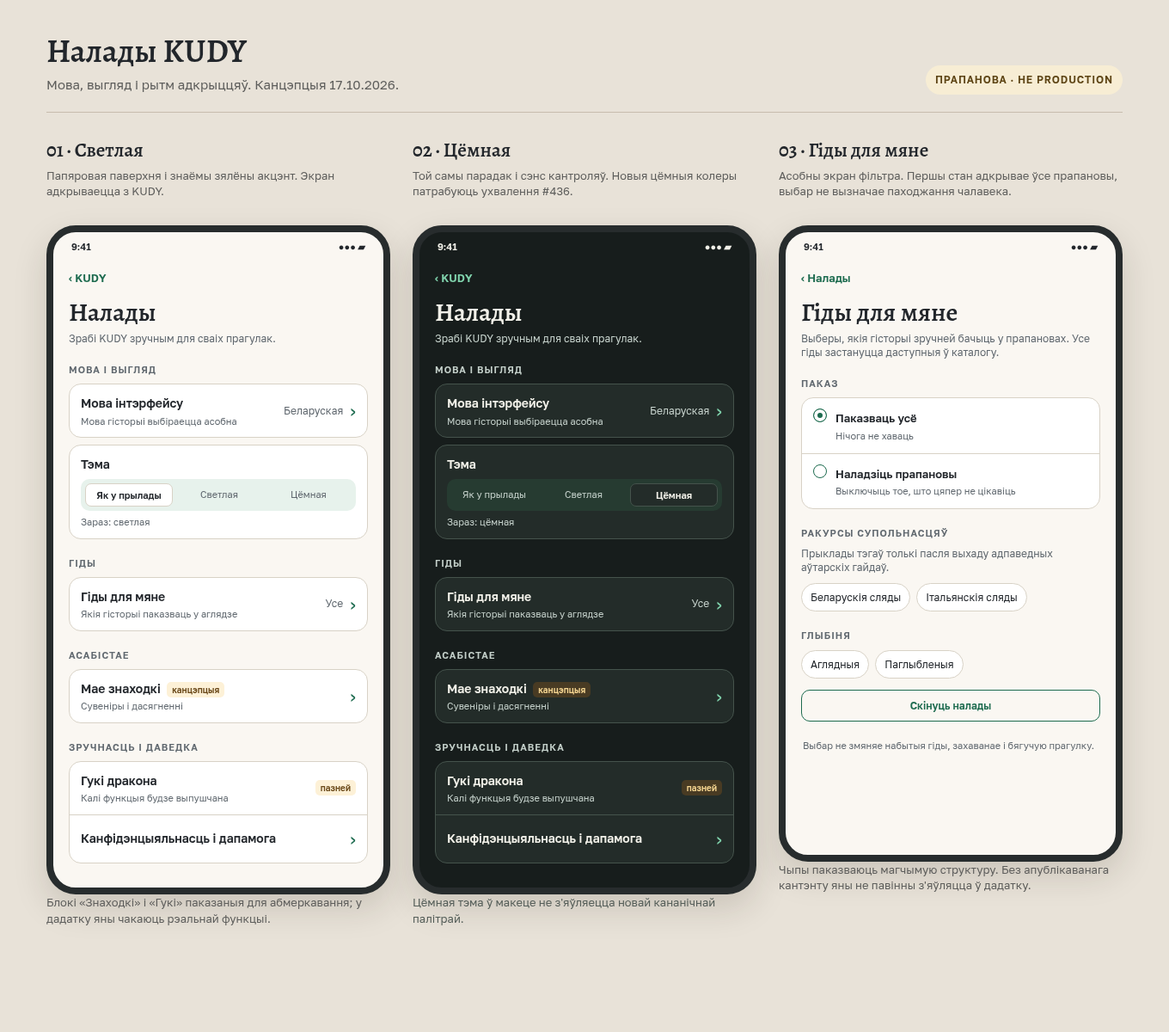
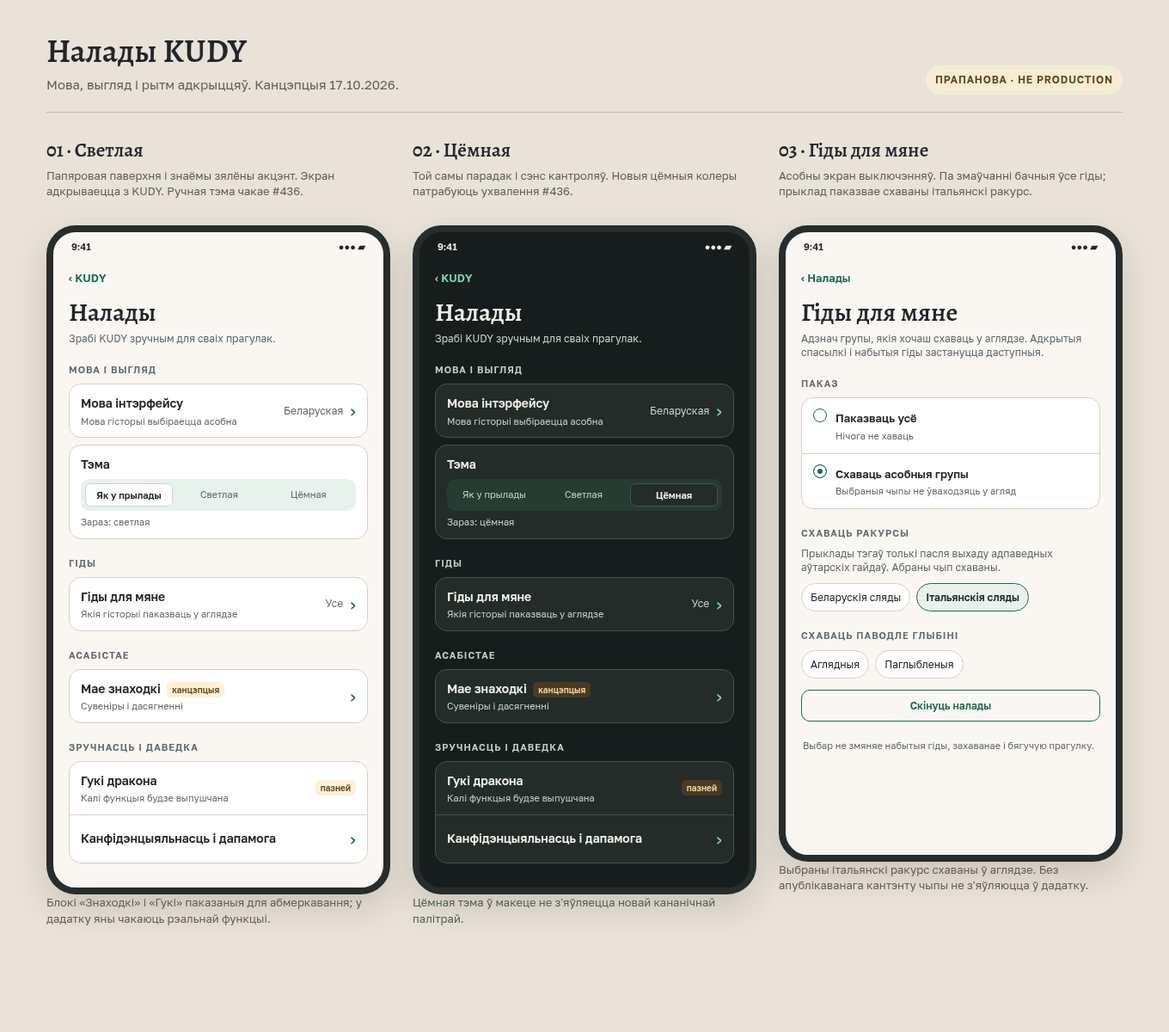
Resolve G27 review gaps in theme and guide filters

diff --git a/docs/design/settings/settings-sheet.html b/docs/design/settings/settings-sheet.html
@@ -9,7 +9,7 @@
 </style>
 </head>
 <body><main class="sheet"><header class="head"><div><h1>Налады KUDY</h1><p>Мова, выгляд і рытм адкрыццяў. Канцэпцыя 17.10.2026.</p></div><span class="tag">Прапанова · не production</span></header><div class="grid">
-<section class="sample"><h2>01 · Светлая</h2><p>Папяровая паверхня і знаёмы зялёны акцэнт. Экран адкрываецца з KUDY.</p><div class="phone"><div class="top"><span>9:41</span><span>●●● ▰</span></div><div class="inner"><div class="nav">‹ KUDY</div><h3 class="title">Налады</h3><p class="intro">Зрабі KUDY зручным для сваіх прагулак.</p><div class="section">Мова і выгляд</div><div class="card"><div class="row"><div><strong>Мова інтэрфейсу</strong><small>Мова гісторыі выбіраецца асобна</small></div><div class="value">Беларуская <span class="chev">›</span></div></div></div><div class="card theme-card" style="margin-top:8px"><strong>Тэма</strong><div class="seg"><span class="on">Як у прылады</span><span>Светлая</span><span>Цёмная</span></div><small>Зараз: светлая</small></div><div class="section">Гіды</div><div class="card"><div class="row"><div><strong>Гіды для мяне</strong><small>Якія гісторыі паказваць у аглядзе</small></div><div class="value">Усе <span class="chev">›</span></div></div></div><div class="section">Асабістае</div><div class="card"><div class="row"><div><strong>Мае знаходкі <span class="concept">канцэпцыя</span></strong><small>Сувеніры і дасягненні</small></div><span class="chev">›</span></div></div><div class="section">Зручнасць і даведка</div><div class="card"><div class="row"><div><strong>Гукі дракона</strong><small>Калі функцыя будзе выпушчана</small></div><span class="concept">пазней</span></div><div class="row"><strong>Канфідэнцыяльнасць і дапамога</strong><span class="chev">›</span></div></div></div></div><p class="footnote">Блокі «Знаходкі» і «Гукі» паказаныя для абмеркавання; у дадатку яны чакаюць рэальнай функцыі.</p></section>
+<section class="sample"><h2>01 · Светлая</h2><p>Папяровая паверхня і знаёмы зялёны акцэнт. Экран адкрываецца з KUDY. Ручная тэма чакае #436.</p><div class="phone"><div class="top"><span>9:41</span><span>●●● ▰</span></div><div class="inner"><div class="nav">‹ KUDY</div><h3 class="title">Налады</h3><p class="intro">Зрабі KUDY зручным для сваіх прагулак.</p><div class="section">Мова і выгляд</div><div class="card"><div class="row"><div><strong>Мова інтэрфейсу</strong><small>Мова гісторыі выбіраецца асобна</small></div><div class="value">Беларуская <span class="chev">›</span></div></div></div><div class="card theme-card" style="margin-top:8px"><strong>Тэма</strong><div class="seg"><span class="on">Як у прылады</span><span>Светлая</span><span>Цёмная</span></div><small>Зараз: светлая</small></div><div class="section">Гіды</div><div class="card"><div class="row"><div><strong>Гіды для мяне</strong><small>Якія гісторыі паказваць у аглядзе</small></div><div class="value">Усе <span class="chev">›</span></div></div></div><div class="section">Асабістае</div><div class="card"><div class="row"><div><strong>Мае знаходкі <span class="concept">канцэпцыя</span></strong><small>Сувеніры і дасягненні</small></div><span class="chev">›</span></div></div><div class="section">Зручнасць і даведка</div><div class="card"><div class="row"><div><strong>Гукі дракона</strong><small>Калі функцыя будзе выпушчана</small></div><span class="concept">пазней</span></div><div class="row"><strong>Канфідэнцыяльнасць і дапамога</strong><span class="chev">›</span></div></div></div></div><p class="footnote">Блокі «Знаходкі» і «Гукі» паказаныя для абмеркавання; у дадатку яны чакаюць рэальнай функцыі.</p></section>
 <section class="sample darkwrap"><h2>02 · Цёмная</h2><p>Той самы парадак і сэнс кантроляў. Новыя цёмныя колеры патрабуюць ухвалення #436.</p><div class="phone dark"><div class="top"><span>9:41</span><span>●●● ▰</span></div><div class="inner"><div class="nav">‹ KUDY</div><h3 class="title">Налады</h3><p class="intro">Зрабі KUDY зручным для сваіх прагулак.</p><div class="section">Мова і выгляд</div><div class="card"><div class="row"><div><strong>Мова інтэрфейсу</strong><small>Мова гісторыі выбіраецца асобна</small></div><div class="value">Беларуская <span class="chev">›</span></div></div></div><div class="card theme-card" style="margin-top:8px"><strong>Тэма</strong><div class="seg"><span>Як у прылады</span><span>Светлая</span><span class="on">Цёмная</span></div><small>Зараз: цёмная</small></div><div class="section">Гіды</div><div class="card"><div class="row"><div><strong>Гіды для мяне</strong><small>Якія гісторыі паказваць у аглядзе</small></div><div class="value">Усе <span class="chev">›</span></div></div></div><div class="section">Асабістае</div><div class="card"><div class="row"><div><strong>Мае знаходкі <span class="concept">канцэпцыя</span></strong><small>Сувеніры і дасягненні</small></div><span class="chev">›</span></div></div><div class="section">Зручнасць і даведка</div><div class="card"><div class="row"><div><strong>Гукі дракона</strong><small>Калі функцыя будзе выпушчана</small></div><span class="concept">пазней</span></div><div class="row"><strong>Канфідэнцыяльнасць і дапамога</strong><span class="chev">›</span></div></div></div></div><p class="footnote">Цёмная тэма ў макеце не з'яўляецца новай кананічнай палітрай.</p></section>
-<section class="sample"><h2>03 · Гіды для мяне</h2><p>Асобны экран фільтра. Першы стан адкрывае ўсе прапановы, выбар не вызначае паходжання чалавека.</p><div class="phone"><div class="top"><span>9:41</span><span>●●● ▰</span></div><div class="inner"><div class="nav">‹ Налады</div><h3 class="title">Гіды для мяне</h3><p class="intro">Выберы, якія гісторыі зручней бачыць у прапановах. Усе гіды застануцца даступныя ў каталогу.</p><div class="section">Паказ</div><div class="card"><div class="option"><span class="radio on"></span><div><strong>Паказваць усё</strong><small>Нічога не хаваць</small></div></div><div class="option"><span class="radio"></span><div><strong>Наладзіць прапановы</strong><small>Выключыць тое, што цяпер не цікавіць</small></div></div></div><div class="section">Ракурсы супольнасцяў</div><p class="intro" style="margin-bottom:0">Прыклады тэгаў толькі пасля выхаду адпаведных аўтарскіх гайдаў.</p><div class="chips"><span class="chip">Беларускія сляды</span><span class="chip">Італьянскія сляды</span></div><div class="section">Глыбіня</div><div class="chips"><span class="chip">Аглядныя</span><span class="chip">Паглыбленыя</span></div><button class="button">Скінуць налады</button><p class="hint">Выбар не змяняе набытыя гіды, захаванае і бягучую прагулку.</p></div></div><p class="footnote">Чыпы паказваюць магчымую структуру. Без апублікаванага кантэнту яны не павінны з'яўляцца ў дадатку.</p></section>
+<section class="sample"><h2>03 · Гіды для мяне</h2><p>Асобны экран выключэнняў. Па змаўчанні бачныя ўсе гіды; прыклад паказвае схаваны італьянскі ракурс.</p><div class="phone"><div class="top"><span>9:41</span><span>●●● ▰</span></div><div class="inner"><div class="nav">‹ Налады</div><h3 class="title">Гіды для мяне</h3><p class="intro">Адзнач групы, якія хочаш схаваць у аглядзе. Адкрытыя спасылкі і набытыя гіды застануцца даступныя.</p><div class="section">Паказ</div><div class="card"><div class="option"><span class="radio"></span><div><strong>Паказваць усё</strong><small>Нічога не хаваць</small></div></div><div class="option"><span class="radio on"></span><div><strong>Схаваць асобныя групы</strong><small>Выбраныя чыпы не ўваходзяць у агляд</small></div></div></div><div class="section">Схаваць ракурсы</div><p class="intro" style="margin-bottom:0">Прыклады тэгаў толькі пасля выхаду адпаведных аўтарскіх гайдаў. Абраны чып схаваны.</p><div class="chips"><span class="chip">Беларускія сляды</span><span class="chip on">Італьянскія сляды</span></div><div class="section">Схаваць паводле глыбіні</div><div class="chips"><span class="chip">Аглядныя</span><span class="chip">Паглыбленыя</span></div><button class="button">Скінуць налады</button><p class="hint">Выбар не змяняе набытыя гіды, захаванае і бягучую прагулку.</p></div></div><p class="footnote">Выбраны італьянскі ракурс схаваны ў аглядзе. Без апублікаванага кантэнту чыпы не з'яўляюцца ў дадатку.</p></section>
 </div></main></body></html>

diff --git a/docs/design/settings/2026-10-17-settings-concept.md b/docs/design/settings/2026-10-17-settings-concept.md
@@ -7,7 +7,7 @@
 - KUDY мае дзве асноўныя паверхні, Explore і KUDY; налады належаць KUDY, а не трэцяму табу ([01](../../01_product_structure.md), [схемы экранаў](../screens-and-transitions.md)). Выбар мовы інтэрфейсу ўжо працуе ў `app/(tabs)/my.tsx`; перанос мусіць пакінуць адзін стан і адзін рэестр моў. Мова інтэрфейсу адрозніваецца ад мовы тэксту і аўдыё актыўнай прагулкі (ADR [G21.20](../../architecture/decisions/G21.20-language-identity.md), `controllers/uiLocaleStore.ts`).
 - [#436](https://github.com/vokhandcrafts/KUDY/issues/436) адкрыта для цёмнай тэмы. Словы карыстальніка тут выбіраюць праектаванне **абедзвюх** тэм; канчатковыя dark-токены і runtime-выпуск праходзяць праз #436 і канон [візуальнай мовы](../visual-language.md).
 - [G25.05](../../agent-tasks/results/G25.05.md) намаляваў калекцыйныя прадметы і станы, але ўмовы дасягненняў не зацверджаныя. [#769](https://github.com/vokhandcrafts/KUDY/issues/769) — праверка ўладальнікам; [#695](https://github.com/vokhandcrafts/KUDY/issues/695) і [#696](https://github.com/vokhandcrafts/KUDY/issues/696) — пілот і кантрактныя межы. Ніводны малюнак не азначае, што дасягненне ўжо выдаецца.
-- Існае discovery фільтруе час, тэмы і ўмовы ([21 §4](../../architecture/21_discovery_feedback_architecture.md)); `DiscoveryOffer` не мае поля нацыянальнай аўдыторыі. `audience_level` — узровень цікавасці да гісторыі, а не краіна ці «папсовасць» гіда.
+- Існае discovery фільтруе час, тэмы і ўмовы ([21 §4](../../architecture/21_discovery_feedback_architecture.md)); `DiscoveryOffer` не мае поля нацыянальнай аўдыторыі. `audience_level` — аўтарская глыбіня гісторыі (`tourist` / `traveller` / `maniac` паводле [01](../../01_product_structure.md) і [25](../../architecture/25_domain_vocabulary.md)); ён не азначае нацыянальнасць і не вызначае доступ.
 
 ## Экран і іерархія
 
@@ -16,25 +16,25 @@
 | Парадак | Блок | Кантроль і тлумачэнне |
 |---|---|---|
 | 1 | Мова | Выбар мовы інтэрфейсу з саманазвамі толькі з адкрытага рэестра. Радок «Мова гісторый можа адрознівацца» вядзе да тлумачэння, але не пераключае актыўны Run. |
-| 2 | Выгляд | «Як у прылады / Светлая / Цёмная». Пры сістэмным выбары тэкст паказвае фактычную тэму. Тэма захоўваецца лакальна, працуе без сеткі і не змяняе колеры кантэнтных ілюстрацый аўтаматычнай інверсіяй. |
-| 3 | Гіды для мяне | Кароткі агляд: «Паказваць усё» па змаўчанні; «Наладзіць» адкрывае асобны экран фільтраў. Гэта налады прапаноў, а не мова/доступ/кошт гіда. |
+| 2 | Выгляд | «Як у прылады / Светлая / Цёмная». Пры сістэмным выбары тэкст паказвае фактычную тэму. Ручны выбар — прапанова для асобнай задачы G27.02.a пасля #436; калі #436 прыме «толькі светлая», у выпушчаным экране пераключальніка няма. Пры ўхваленні ручная перавага захоўваецца лакальна, працуе без сеткі і не змяняе колеры кантэнтных ілюстрацый аўтаматычнай інверсіяй. |
+| 3 | Гіды для мяне | Кароткі агляд: «Паказваць усё» па змаўчанні; «Наладзіць» адкрывае асобны экран выключэнняў. Гэта налады паказу гайдаў, а не мова/доступ/кошт гіда. |
 | 4 | Мае знаходкі | Спасылка на калекцыю. Калі функцыя яшчэ не выпушчана, у production блок не паказваецца; у макеце — выразная пазнака «канцэпцыя». Дасягненні і асабістыя сувеніры маюць рознае паходжанне. |
 | 5 | Зручнасць | «Гукі дракона» (калі #694 і сама механіка выпушчаныя); «Менш руху» паводле сістэмнай перавагі, з магчымасцю выключыць дадатковыя анімацыі. Крытычная інфармацыя ніколі не залежыць ад гуку або руху. Не паказваць пустыя пераключальнікі да з'яўлення функцыі. |
-| 6 | Даведка і даныя | Канфідэнцыяльнасць, умовы, зваротная сувязь і кіраванне офлайн-загрузкамі, калі гэтыя дзеянні даступныя. Restore Purchases застаецца ў KUDY побач з набытым, пакуль навігацыйны агляд не пацвердзіць перанос. |
+| 6 | Даведка і даныя | Канфідэнцыяльнасць, умовы, зваротная сувязь і кіраванне офлайн-загрузкамі, калі гэтыя дзеянні даступныя. Тут жа — прагляд і адкліканне згоды на аналітыку і crash-дыягностыку (`granted` / `revoked` / яшчэ не пыталі) і выдаленне даных прылады паводле [09 §10](../../architecture/09_technical_architecture.md), калі адпаведныя дзеянні выпушчаныя. Адкліканне павінна быць не глыбей за выдачу згоды. Restore Purchases застаецца ў KUDY побач з набытым, пакуль навігацыйны агляд не пацвердзіць перанос. |
 
 Няма профілю, пераключальніка апавяшчэнняў і метрык «прайшоў N кропак»: для іх сёння няма функцыі або карыснай дзеі. Кожны новы радок мусіць мець рэальны вынік.
 
 ## «Гіды для мяне»: мадэль выбару
 
-Аўтар пазначае **для каго гід можа быць асабліва цікавым**, але не вызначае нацыянальнасць чалавека. Прыклады аўтарскіх тэгаў: «Беларускія сляды ў Гданьску», «Італьянскія сляды ў Гданьску», «Толькі глыбокія гісторыі». Назва супольнасці — кантэнтны факт, які патрабуе аўтарскага абгрунтавання; ён не вынікае з мовы перакладу, GPS, SIM ці пашпарта.
+Аўтар пазначае **для каго гід можа быць асабліва цікавым**, але не вызначае нацыянальнасць чалавека. Выбраны на экране чып азначае **«схаваць гэтую групу»**, не «цікаўлюся ёй». Прыклады аўтарскіх тэгаў: «Беларускія сляды ў Гданьску», «Італьянскія сляды ў Гданьску», «Толькі глыбокія гісторыі». Назва супольнасці — кантэнтны факт, які патрабуе аўтарскага абгрунтавання; ён не вынікае з мовы перакладу, GPS, SIM ці пашпарта.
 
-- Пачатковы стан: **усе апублікаваныя гіды бачныя**. Чалавек можа схаваць выбраныя тэматычныя/аўдыторныя групы або выбраць «Больш вузкіх гісторый». Канкрэтныя назвы і таксаномія прымаюцца пасля кантэнтнага прыкладу, а не ўшываюцца ў код.
-- Адрозніць «тэма» (бурштын, архітэктура) ад «ракурс для супольнасці» (беларускія/італьянскія сляды) і «глыбіня» (аглядны/паглыблены). Гэта розныя восі. «Папсовы» — унутранае рабочае слова; чалавеку паказваць «Аглядны» або «Паглыблены» пасля рэдакцыйнай праверкі.
-- Некалькі супольнасцяў можна выбраць адначасова; «Нічога не хаваць» аднаўляе дэфолт. Непазначаныя гіды не знікаюць. Калі пасля фільтра няма прапаноў, паказаць прычыну і кнопку «Паказаць усе гіды».
+- Пачатковы стан: **усе апублікаваныя гіды бачныя**. Чалавек можа выбраць некалькі груп, якія хоча схаваць; выбар не дадае новых рэкамендацый. Канкрэтныя назвы і таксаномія прымаюцца пасля кантэнтнага прыкладу, а не ўшываюцца ў код.
+- «Тэма» (бурштын, архітэктура) і «ракурс для супольнасці» (беларускія/італьянскія сляды) — розныя факты. Глыбіня ўжо мае кананічны `audience_level`; G27.01 вырашае толькі, як аўтарскія ўзроўні гісторый паказаць на ўзроўні цэлага гіда. Не ўводзіць другога поля глыбіні. «Папсовы» — унутранае рабочае слова; подпісы «Аглядныя» і «Паглыбленыя» ў макеце застаюцца ўмоўнымі да гэтага рашэння.
+- Некалькі груп можна схаваць адначасова; «Нічога не хаваць» аднаўляе дэфолт. Непазначаныя гіды не знікаюць. Калі гід мае некалькі тэгаў і хоць адзін з іх схаваны, ён не ўваходзіць у адфільтраваны агляд; старыя гіды без тэгаў застаюцца бачныя. Калі пасля фільтра няма прапаноў, паказаць прычыну і кнопку «Паказаць усе гіды».
 - Налады ўплываюць на аглядны спіс «Гіды» і аўтарскія рэкамендацыі; у спісе заўсёды ёсць «Паказаць усе». Яўны пошук, адкрытая прамая спасылка, набытае, захаванае, загружанае і актыўная прагулка застаюцца даступнымі. Фільтр ніколі не мяняе entitlement, цану, мову пласта або `Run`.
-- Кожная картка, якая сапраўды персаналізавана, можа сказаць «Чаму бачу: беларускія сляды» і даць шлях да налад. Нельга абяцаць прычыну без аўтарскага тэга. Налады лакальныя, без збору нацыянальнасці; сінхранізацыя паміж прыладамі — асобнае рашэнне.
+- Картка можа паказаць аўтарскі ракурс, напрыклад «Беларускія сляды», калі ён ёсць у апублікаваных даных. Тэкст «Чаму бачу» не сцвярджае, што карыстальнік выбраў гэтую супольнасць. Схаваныя тэгі не ствараюць новую прычыну рэкамендацыі. Налады лакальныя, без збору нацыянальнасці; сінхранізацыя паміж прыладамі — асобнае рашэнне.
 
-Перад runtime патрэбныя рэдакцыйная таксаномія і прыклады кантэнту, месца тэгаў у аўтарскай мадэлі і версійным discovery-індэксе, правіла для старых індэксаў, адзін селектар для агляду і тэсты абодвух крайніх станаў. Нельга запісваць новую вось як `audience_level` або перарабляць яе ў locale.
+Перад runtime патрэбныя рэдакцыйная таксаномія і прыклады кантэнту, месца тэгаў супольнасцяў у аўтарскай мадэлі і версійным discovery-індэксе, правіла для старых індэксаў, адзін селектар для агляду і тэсты абодвух крайніх станаў. `audience_level` захоўвае існуючы сэнс глыбіні; ракурс супольнасці не запісваецца ў яго або ў locale. Правілы [21 §4](../../architecture/21_discovery_feedback_architecture.md) для `selectDiscovery` і закрытыя `reasons`/`differences` не мяняюцца гэтым макетам: пасля стандартнага падбору прэзентацыйны слой прымяняе лакальныя выключэнні да абодвух спісаў, не змяняючы іх прычыны, парадак і entitlement. Калі exact пасля выключэння пусты, UI можа паказаць толькі несхаваныя alternatives паводле існага правіла 7, а таксама паведамленне «Частка гайдаў схаваная» і «Паказаць усе». G27.04 мусіць запісаць гэты крок у канон і праверыць яго негатыўным тэстам; фільтр не змяняе чысты `selectDiscovery`.
 
 ## Калекцыя і вопратка дракона
 
@@ -44,11 +44,11 @@
 
 ## Макеты і праверкі
 
-[Макет](settings-sheet.html) паказвае экран налад у светлым і цёмным выглядзе і асобны экран фільтраў. Цёмныя значэнні — **прапанова**, а не дадатак да канона. Матэрыял і зялёны акцэнт захоўваюць характар; тэкст і кантролі павінны прайсці кантраст на сапраўдных фонах. Праверыць бел/англ і самыя доўгія назвы моў, 1,25× тэкст, 320 px шырыню, screen reader і змену сістэмнай тэмы падчас адкрытага экрана. У Run тэма мяняе толькі chrome; сесія і гук працягваюцца. Гэтыя праверкі ў макеце не лічацца выкананымі на прыладзе.
+[Макет](settings-sheet.html) паказвае экран налад у светлым і цёмным выглядзе і асобны экран фільтраў. Цёмныя значэнні — **прапанова**, а не дадатак да канона. Матэрыял і зялёны акцэнт захоўваюць характар; тэкст і кантролі павінны прайсці кантраст на сапраўдных фонах. Праверыць бел/англ і самыя доўгія назвы моў, 1,25× тэкст, 320 px шырыню, screen reader і змену сістэмнай тэмы падчас адкрытага экрана. Калі #436 закрыецца рашэннем «толькі светлая», праверка цёмнай тэмы не абяцаецца як зробленая. У Run тэма мяняе толькі chrome; сесія і гук працягваюцца. Гэтыя праверкі ў макеце не лічацца выкананымі на прыладзе.
 
 ## Рашэнні, якія яшчэ патрэбныя
 
 1. Калі пасля MVP адкрываць калекцыю і блок знаходак? Першы рэліз паводле [09 §17](../../architecture/09_technical_architecture.md) трымае толькі лог пад будучыя дасягненні; да асобнага рашэння блок у production схаваны.
-2. Якія першыя рэальна аўтарскія ракурсы і глыбіні патрэбныя? Не заводзіць пустыя «італьянскія»/«беларускія» чыпы без адпаведных гайдаў.
+2. Якія першыя рэальна аўтарскія ракурсы патрэбныя і як выводзіць глыбіню гіда з `audience_level` яго гісторый? Не заводзіць пустыя «італьянскія»/«беларускія» чыпы без адпаведных гайдаў.
 3. Ці патрэбна адна дэманстрацыйная рэч дракона ў пілотным дызайне пасля пацверджання падабенства фігурцы (#776)? Поўны гардэроб адкладаецца.
 4. #436: зацвердзіць dark-пару токенаў, сістэмны дэфолт і ахоп паверхняў перад runtime.

diff --git a/docs/agent-tasks/settings/README.md b/docs/agent-tasks/settings/README.md
@@ -7,13 +7,14 @@
 | [G27.00](G27.00.md) | Апублікаваць канцэпцыю, макеты і план | [#780](https://github.com/vokhandcrafts/KUDY/issues/780) | няма |
 | [G27.01](G27.01.md) | Рашэнне ўладальніка па UX і таксаноміі | [#781](https://github.com/vokhandcrafts/KUDY/issues/781) | G27.00 |
 | [G27.02](G27.02.md) | Экран налад і перанос выбару UI-мовы | [#782](https://github.com/vokhandcrafts/KUDY/issues/782) | G27.01, #774, #775 |
-| [#436](https://github.com/vokhandcrafts/KUDY/issues/436) | Цёмныя токены і паводзіны тэмы | існая задача | G27.01 (рашэнне), існы абсяг #436 |
+| [#436](https://github.com/vokhandcrafts/KUDY/issues/436) | Рашэнне і канон цёмнай тэмы | існая задача | паводле самой #436; G27.01 дае дызайн-уваход, але не ставіць dispatcher-залежнасць |
+| [G27.02.a](G27.02.a.md) | Ручны выбар тэмы, калі #436 ухваліць цёмную | [#798](https://github.com/vokhandcrafts/KUDY/issues/798) | G27.02, #436 |
 | [G27.03.a](G27.03.a.md) | Два аўтарскія брыфы для праверкі тэгаў | [#788](https://github.com/vokhandcrafts/KUDY/issues/788) | G27.01 |
 | [G27.03](G27.03.md) | Рэдакцыйныя тэгі гайдаў і версійны кантракт | [#783](https://github.com/vokhandcrafts/KUDY/issues/783) | G27.01, G27.03.a |
 | [G27.04](G27.04.md) | Захаванне пераваг і фільтр прапаноў | [#784](https://github.com/vokhandcrafts/KUDY/issues/784) | G27.02, G27.03 |
 | [G27.05.a](G27.05.a.md) | Захаванне паходжання сувеніра/дасягнення | [#789](https://github.com/vokhandcrafts/KUDY/issues/789) | G27.01, #769 |
 | [G27.05](G27.05.md) | Уваход у калекцыю з дакладнымі станамі | [#785](https://github.com/vokhandcrafts/KUDY/issues/785) | G27.02, #769, G27.05.a |
 | [G27.06](G27.06.md) | Адзін аксесуар дракона як пілот | [#786](https://github.com/vokhandcrafts/KUDY/issues/786) | G27.05, #776 |
-| [G27.07](G27.07.md) | Скразная праверка налад | [#787](https://github.com/vokhandcrafts/KUDY/issues/787) | G27.02, G27.04, #436 |
+| [G27.07](G27.07.md) | Скразная праверка налад | [#787](https://github.com/vokhandcrafts/KUDY/issues/787) | G27.02, G27.04, #436, G27.02.a |
 
-G27.05 і G27.06 не блакуюць выпуск G27.07: калекцыя і аксесуар — пасля-MVP этапы, а першы рэліз паводле 09 §17 мае толькі лог пад будучыя дасягненні. #436 выкарыстоўваецца паўторна, без другога dark-theme issue. Да merge PR G27.00 шляхі крыніц недаступныя ў `main`; новыя issues павінны мець `Blocked-by` на issue публікацыі. Публікацыя 17.10.2026: #780–#789 прачытаныя назад праз GitHub API, усе OPEN і без `agent:ready`; залежнасці супадаюць з карткамі. Бачнасць у GitHub Project/backlog не пацверджана: токен не мае `read:project`. PR з крыніцамі яшчэ чакае merge; #780 закрые яго, а астатнія задачы не запускаюцца да закрыцця сваіх `Blocked-by`.
+G27.05 і G27.06 не блакуюць выпуск G27.07: калекцыя і аксесуар — пасля-MVP этапы, а першы рэліз паводле 09 §17 мае толькі лог пад будучыя дасягненні. #436 выкарыстоўваецца паўторна, без другога dark-theme issue. Да merge PR G27.00 шляхі крыніц недаступныя ў `main`; новыя issues павінны мець `Blocked-by` на issue публікацыі. Публікацыя 17.10.2026: #780–#789 і #798 прачытаныя назад праз GitHub API, усе OPEN і без `agent:ready`; залежнасці супадаюць з карткамі. Бачнасць у GitHub Project/backlog не пацверджана: токен не мае `read:project`. PR з крыніцамі яшчэ чакае merge; #780 закрые яго, а астатнія задачы не запускаюцца да закрыцця сваіх `Blocked-by`.

diff --git a/docs/agent-tasks/settings/G27.04.md b/docs/agent-tasks/settings/G27.04.md
@@ -10,9 +10,9 @@ Let a person hide unwanted guide suggestion groups and restore the unfiltered vi
 
 ## Acceptance criteria
 
-1. [ ] Store preferences locally with default show-all, multi-select interests, reset and a migration/unknown-tag rule; changes work offline and survive restart.
-2. [ ] Apply preferences to the browsable Guides list and recommendations, with a visible show-all escape. Explicit search, direct links, purchased/saved/downloaded guides and active Run remain reachable; unknown/untagged offers remain visible.
-3. [ ] Explain a personalized card's reason only when backed by an authored tag. Empty results name the filter and offer one action to show all guides. Test mixed tags, zero results and stale catalog revisions.
+1. [ ] Store a set of excluded groups locally, with default show-all, multiple exclusions, reset and a migration/unknown-tag rule; selected chips mean “hide.” Changes work offline and survive restart.
+2. [ ] Apply exclusions to the browsable Guides list and discovery recommendations, with a visible show-all escape. Explicit search, direct links, purchased/saved/downloaded guides and active Run remain reachable; unknown/untagged offers remain visible.
+3. [ ] Amend canonical 21 §4 with the presentation step after `selectDiscovery`: filter exact and alternatives before display, preserve order and the closed `reasons`/`differences`, and show a filtered-empty explanation plus “show all.” An authored tag may label a card but must not claim the user selected it. Add negative tests for mixed tags, empty exact/alternatives, unknown tags and stale catalogs.
 
 ## Out of scope
 
@@ -24,4 +24,4 @@ Blocked-by: #782, #783.
 
 ## Proof
 
-Selector and UI tests fail if the default, exclusions or escape action is removed; Showboat proves a filtered and reset flow.
+Selector and UI tests fail if the default, post-selector exclusion step or escape action is removed; Showboat proves a filtered and reset flow.

diff --git a/docs/agent-tasks/settings/G27.03.md b/docs/agent-tasks/settings/G27.03.md
@@ -6,12 +6,12 @@ Epic: #346
 
 ## Goal
 
-Make community angle and guide depth explicit, author-reviewed catalog facts that old clients and old catalogs can handle.
+Make community angles explicit author-reviewed catalog facts, and derive guide depth from the existing `audience_level` contract without a second depth field.
 
 ## Acceptance criteria
 
-1. [ ] Define a bounded taxonomy for community angle and depth from the two reviewed pilot briefs in #788; state why each tag applies. Keep theme, audience_level and locale separate.
-2. [ ] Extend authoring, validation and versioned discovery/catalog output with a documented compatibility path for old data and clients. Untagged offers remain eligible.
+1. [ ] Define bounded community-angle tags from the two reviewed pilot briefs in #788, with an editorial reason for each. Use G27.01’s approved aggregation of story `audience_level` for guide depth; keep community angle, theme and locale distinct.
+2. [ ] Extend authoring, validation and versioned discovery/catalog output for community-angle tags with a documented compatibility path for old data and clients. Untagged offers remain eligible; do not add a second depth field.
 3. [ ] Add contract and export guards for unknown tags, missing translations, duplicates and payload bounds; update the canonical architecture document once rather than copying contracts into task results.
 
 ## Out of scope

diff --git a/docs/agent-tasks/settings/G27.02.a.md b/docs/agent-tasks/settings/G27.02.a.md
@@ -1,0 +1,27 @@
+# G27.02.a — Add the manual theme preference when dark mode is approved
+
+## Epic
+
+Epic: #346
+
+## Goal
+
+Give Settings one persistent system/light/dark control if #436 approves a dark theme; keep the released screen honest if #436 chooses light only.
+
+## Acceptance criteria
+
+1. [ ] Read the owner verdict in #436. If dark mode is approved, add one Settings control with system, light and dark choices; if the verdict is light only, record that the control is omitted and close this task without a dead row.
+2. [ ] For an approved dark theme, persist the manual choice locally; system follows live OS changes, and the selected theme applies to app chrome without changing active Run state, audio or content artwork.
+3. [ ] Test restart, offline use, live OS theme changes, status bar and large text in both themes; ensure the control and its labels remain accessible. A revert of persistence or theme application fails a test.
+
+## Out of scope
+
+Designing dark tokens in place of #436, inverting illustrations, guide filtering or collection mechanics.
+
+## Dependencies
+
+Blocked-by: #782, #436.
+
+## Proof
+
+Theme preference, system-following and Run-continuity tests; device screenshots of both themes when dark mode is approved. For light-only, cite #436's recorded verdict and the absence of the control.

diff --git a/docs/agent-tasks/settings/G27.07.md b/docs/agent-tasks/settings/G27.07.md
@@ -10,7 +10,7 @@ Hand off a checked Settings release with the approved theme, language and guide-
 
 ## Acceptance criteria
 
-1. [ ] Verify light, dark and system theme on representative Explore, Settings, guide, Run and KUDY surfaces; record device/browser, font scaling, screen reader, contrast and screenshots.
+1. [ ] Follow #436’s verdict: if dark mode is approved, verify light, dark and system choices on representative Explore, Settings, guide, Run and KUDY surfaces; if #436 records light only, verify the light surface and absence of a dead theme control. Record device/browser, font scaling, screen reader, contrast and screenshots for the supported states.
 2. [ ] Exercise language switch, offline preference change, filtered-empty reset and active Run continuity. Compare observed behavior against the G27 concept and canonical contracts.
 3. [ ] List accepted, deferred and unavailable items in one handoff; do not mark collection/accessory complete unless their separate gates closed and evidence exists.
 
@@ -20,7 +20,7 @@ Approving new brand tokens or shipping accessory mechanics through acceptance al
 
 ## Dependencies
 
-Blocked-by: #782, #784, #436.
+Blocked-by: #782, #784, #436, #798.
 
 ## Proof
 

diff --git a/docs/agent-tasks/README.md b/docs/agent-tasks/README.md
@@ -1,5 +1,7 @@
 # Заданні для новых агентаў
 
+**Налады G27 (2026-10-17):** [канцэпцыя, макеты і GitHub Issues](settings/README.md) — мова, тэма, выключэнні гайдаў і адкладзеная калекцыя; backlog без запуску.
+
 **Брэнд і дызайн G25 (2026-10-08):** [брыф, 9 новых дызайн-задач і 2 паўторна выкарыстаныя](brand-design/README.md) — агульная канцэпцыя «Атлас знаходак», меню, іконкі, персанаж, дасягненні, гук, кампаненты і экраны; backlog без запуску.
 
 **Разбор прапаноў пра брэнд і геймплэй (2026-10-08):** [G24.00–G24.05 і GitHub Issues](findings/README.md) — праверка маркі/дамена, брэнда, гуку і пілота ўзаемадзеяння; даследаванні чакаюць публікацыі разбору ў `main`, запуск не дазволены.

diff --git a/docs/agent-tasks/settings/G27.01.md b/docs/agent-tasks/settings/G27.01.md
@@ -11,7 +11,7 @@ Record the owner's decision on the screen structure, theme behavior, first edito
 ## Acceptance criteria
 
 1. [ ] Review the three screens in the G27 concept with the owner; record accepted, changed and deferred rows and exact copy decisions in the design decision register.
-2. [ ] Choose the initial author-backed guide interest tags from actual planned guides; preserve the default of showing all guides and decide whether depth is an independent axis.
+2. [ ] Choose the initial author-backed guide interest tags from actual planned guides; preserve default show-all and decide how guide-level depth is derived from existing story `audience_level`, without adding a second depth field.
 3. [ ] Record the post-MVP collection sequence, and link the decision to #769 and #436 without approving their separate deliverables by implication.
 
 ## Out of scope
